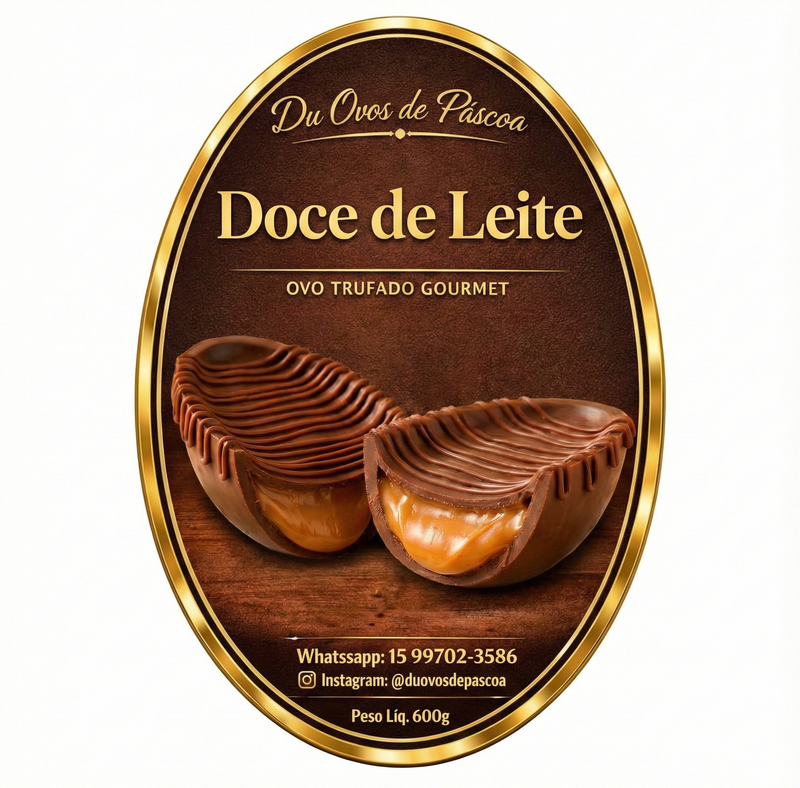
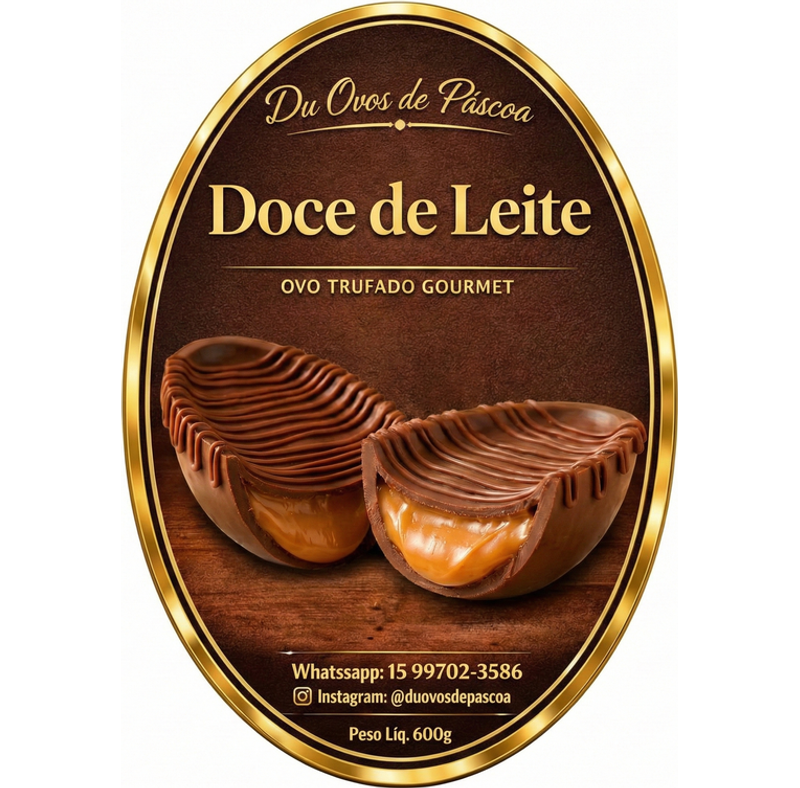
Standardize images: trim and resize to 800x788

Changed region(s): [[0.125, 0.0, 0.875, 1.0]]

diff --git a/scripts/smart_resize.ts b/scripts/smart_resize.ts
@@ -1,0 +1,46 @@
+
+import sharp from "sharp";
+import path from "path";
+import fs from "fs";
+
+const DIR = path.join(process.cwd(), "client/public/products");
+const TARGET_WIDTH = 800;
+const TARGET_HEIGHT = 788;
+
+async function smartResize() {
+    console.log(`Smart resizing ALL images in ${DIR} to ${TARGET_WIDTH}x${TARGET_HEIGHT} with TRIM...`);
+
+    const files = fs.readdirSync(DIR).filter(f => f.match(/\.(png|jpg|jpeg)$/i));
+
+    for (const file of files) {
+        const filePath = path.join(DIR, file);
+        const tempPath = path.join(DIR, `temp_${file}`);
+
+        try {
+            // 1. Load image
+            let pipeline = sharp(filePath);
+
+            // 2. TRIM transparent borders (if any) to get bounding box of content
+            // For JPEGs (no transparency), this might not work well unless background is uniform color.
+            // But for PNGs it's crucial.
+            // We'll use a threshold for trim to catch near-white/black if needed, but default is exact.
+            pipeline = pipeline.trim();
+
+            // 3. Resize to fit inside target box
+            pipeline = pipeline.resize(TARGET_WIDTH, TARGET_HEIGHT, {
+                fit: 'contain',
+                background: { r: 0, g: 0, b: 0, alpha: 0 } // Transparent background for the padding
+            });
+
+            await pipeline.toFile(tempPath);
+
+            fs.renameSync(tempPath, filePath);
+            console.log(`${file}: PROCESSED`);
+        } catch (e) {
+            console.error(`${file}: FAILED`, e);
+            if (fs.existsSync(tempPath)) fs.unlinkSync(tempPath);
+        }
+    }
+}
+
+smartResize().catch(console.error);
